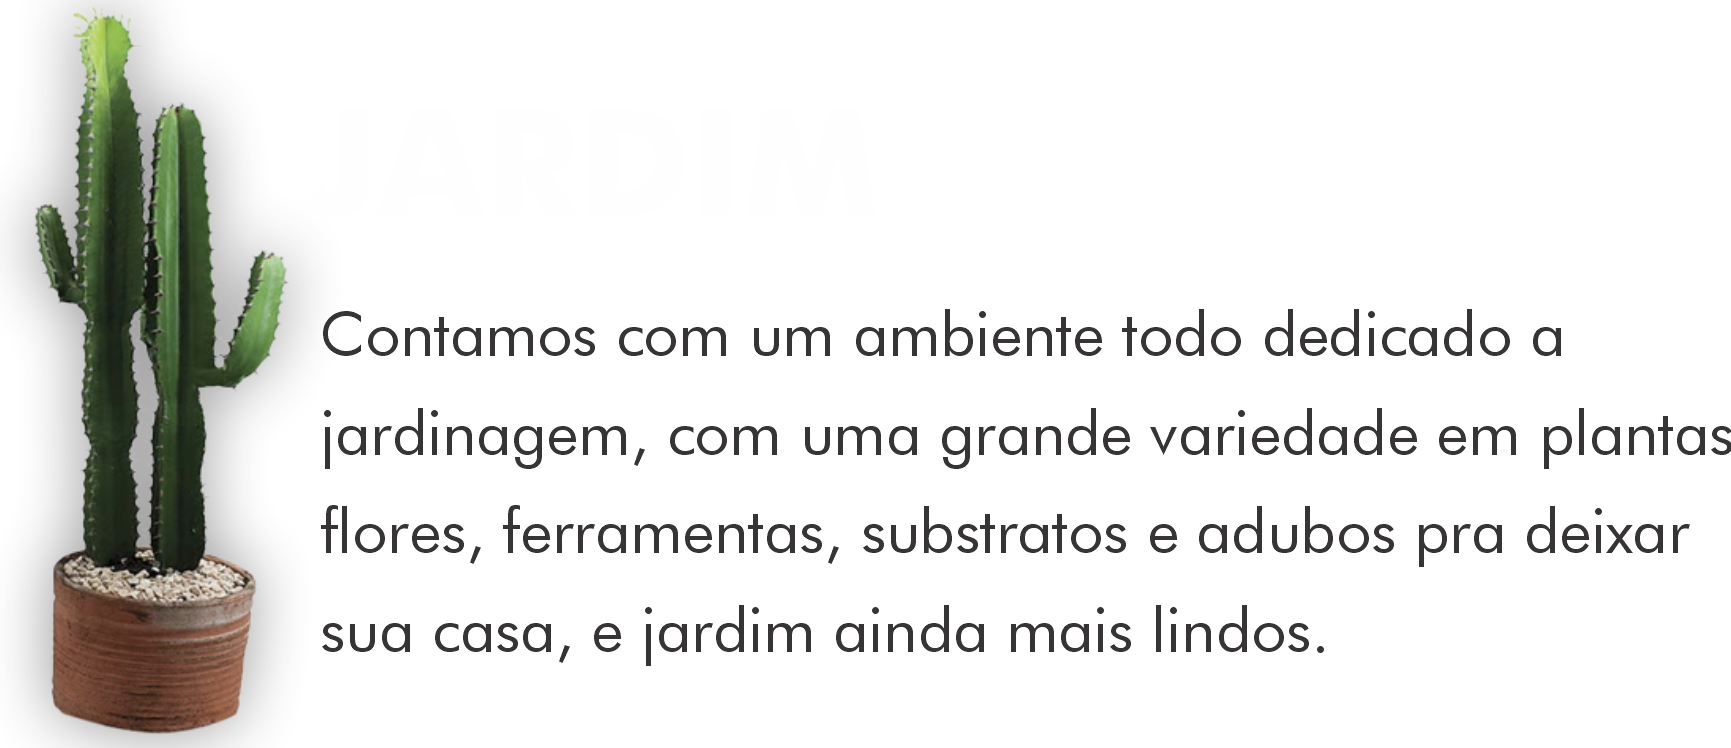
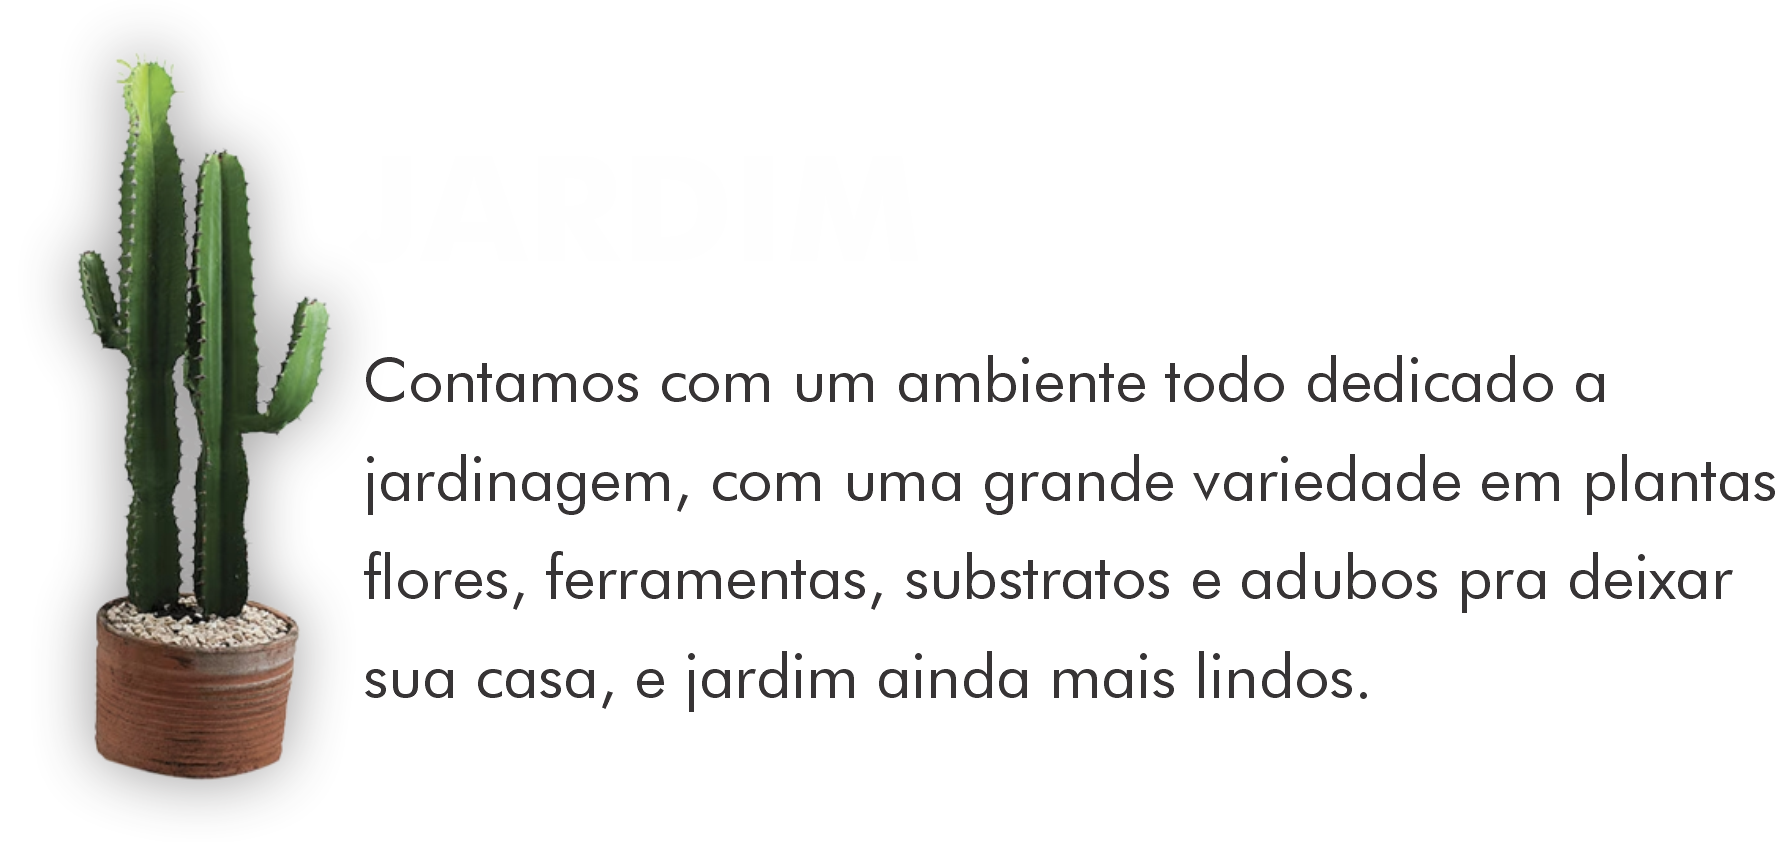
Alteração mobile

Changed region(s): [[0.0, 0.0, 0.9983, 1.0], [0.1872, 0.5227, 1.0, 0.6457]]

diff --git a/index.html b/index.html
@@ -31,31 +31,34 @@
 
        <!--div dos cards-->
       <main>     
-      <div class="div-cards">
+        
+        <div class="div-cards">
 
-        <div id="card-1" class="card">
-          <img src="./img/loja.png" class="card-img-top" alt="...">
-        </div>
-
-        <div id="card-2" class="card">
-          <img src="./img/farmacia.png" class="card-img-top" alt="...">
-        </div>        
-
-        <div id="card-3" class="card">
-          <img src="./img/jardim.png" class="card-img-top" alt="...">
-        </div>        
-
-        <div id="card-4" class="card">
-          <img src="./img/disk entrega.png" class="card-img-top" alt="...">
-        </div>        
-
-        <div id="card-5" class="card">
-          <img src="./img/quem somos.png" class="card-img-top" alt="...">
-        </div>
-
-        <div id="card-6" class="card">
-          <img src="./img/nosso espaço.png" class="card-img-top" alt="...">
-        </div>
+        <section>
+          <div id="card-1" class="card">
+            <img src="./img/loja.png" class="card-img-top" alt="...">
+          </div>
+        
+          <div id="card-2" class="card">
+            <img src="./img/farmacia.png" class="card-img-top" alt="...">
+          </div>        
+        
+          <div id="card-3" class="card">
+            <img src="./img/jardim.png" class="card-img-top" alt="...">
+          </div>        
+        
+          <div id="card-4" class="card">
+            <img src="./img/disk entrega.png" class="card-img-top" alt="...">
+          </div>        
+        
+          <div id="card-5" class="card">
+            <img src="./img/quem somos.png" class="card-img-top" alt="...">
+          </div>
+       
+          <div id="card-6" class="card">
+            <img src="./img/nosso espaço.png" class="card-img-top" alt="...">
+          </div>
+        </section>
 
       </div>
 
@@ -93,7 +96,7 @@
         style="position:fixed;width:62px;height:62px;bottom:100px;right:10px;background: #D6249F;background: radial-gradient(circle at 30% 107%, #FDF497 0%, #FDF497 5%, #FD5949 45%,#D6249F 60%,#285AEB 90%);;color:#FFF;border-radius:50px;text-align:center;font-size:30px;box-shadow: 1px 1px 2px #888; z-index:1000;"
         target="_blank"> <i style="margin-top:18px" class="fa fa-instagram"></i> <!-- FIM INSTAGRAM -->
         
-        <!--WHATSAPP--><a href="https://api.whatsapp.com/send?phone=5519991995226"><img class="animated tada" data-selector="img" src="https://i.imgur.com/RK9KdRV.png" style="height:65px; position:fixed; bottom: 15px; right: 10px; z-index:99999;" target="_blank"></a>
+        <!--WHATSAPP--><a href="https://api.whatsapp.com/send?phone=5519991995226"><img class="animated tada" data-selector="img" src="/img/RK9KdRV.png" style="height:65px; position:fixed; bottom: 15px; right: 10px; z-index:99999;" target="_blank"></a>
     </div>
   </div>
 </body>

diff --git a/css/style.css b/css/style.css
@@ -21,8 +21,17 @@ body{
   }
 
 
+header{
+    overflow: hidden;
+}  
+
+main{
+    overflow: hidden;
+}
+
 header .banner{
     text-align: center;
+    
 }
 
 header .tags{
@@ -39,10 +48,9 @@ main .div-cards{
 
 }
 
-main .div-cards img{
-    padding: 12px;
+section div{
+    padding: 5%;
 }
-
 
 
 
@@ -95,8 +103,15 @@ main .div-cards img{
     background-color: #55caf5;
 }
 
+
+/* Se a largura for menor que 1200 pixels faça:*/
+
+
 /* Se a largura for menor que 720 pixels faça:*/
 @media screen and (max-width:720px){
+    .cabeçalho{
+        padding: 10px;
+    }
 
     .cabeçalho img{
         width: 100%;   
@@ -106,9 +121,7 @@ main .div-cards img{
         border-radius: 20px; 
     }
 
-    .cabeçalho{
-        padding: 15px;
-    }
+    
 
     .div-cards .card{
         width: 100%;
@@ -116,30 +129,40 @@ main .div-cards img{
         border-color: rgb(255,255,255,0.0);    
     }
 
-    .div-cards .card img{
-        width: 80%;
-        padding-left: 27px;
+    section img{
+        width: 100%;
     }
 
+    section{
+        position: relative;
+        margin-right: 35px;
+    }
+
+    #card-1{
+        margin-top: 10px;
+        margin-bottom: 25px;
+    }
     #card-2{
-        margin-top: 20px;
-        margin-bottom: 0;
+        
+        margin-bottom: 0px;
+        padding-bottom: 0;
+    }
+    #card-3{
+     
+        margin-top: 0px;
+        margin-bottom:0px;
+        
     }
 
-    #card-3{
-        padding: 0;
-        margin: 0;
+    #card-4{
+        margin-top: 0px;
+        margin-bottom: 35px;
     }
     
     #card-5{
-        margin-top: 20px;
+        margin-bottom: 30px;
     }
     
     #card-6{
-        margin-top: 25px;
     }
 }
-
-/*Clinica veterinária Agro Costa, o melhor para seu pet*/
-/*Horario de funcionamento*/
-/*whatsapp*/
